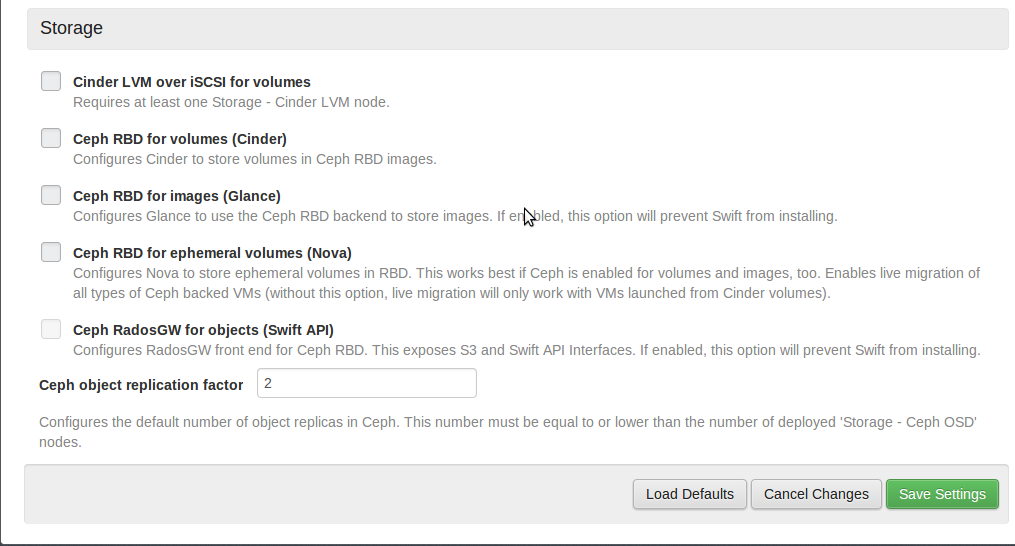
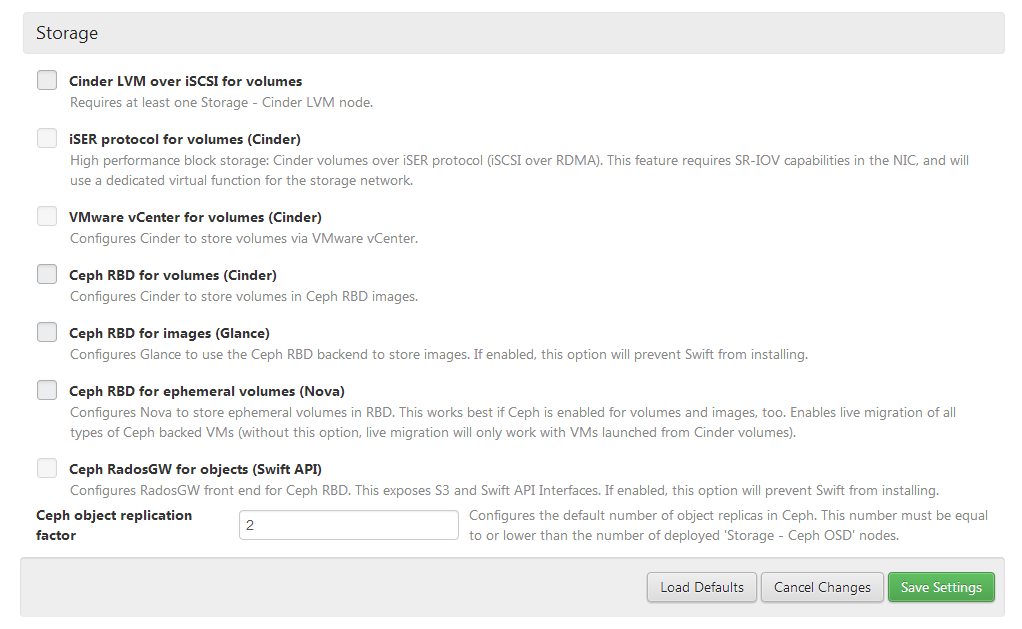
Add Mellanox configurations and planning
1. Add Mellanox configuration in settings tab.
2. Create initial section for usign Mellanox hardware
   in the planning guide.

Partial-Bug: 1359216

Changed region(s): [[0.0305, 0.0934, 1.0, 0.9652], [0.0, 0.9963, 1.0, 1.0], [0.0305, 0.0311, 0.1222, 0.0934]]

diff --git a/pages/user-guide/config-environment/settings/3600-mellanox-neutron.rst b/pages/user-guide/config-environment/settings/3600-mellanox-neutron.rst
@@ -1,0 +1,59 @@
+
+.. raw:: pdf
+
+   PageBreak
+
+.. _mellanox-neutron-ug:
+
+Mellanox Neutron components
++++++++++++++++++++++++++++
+
+This section explains how to configure Mellanox ConnectX-3 adapters
+in your environement. See :ref:`mellanox-adapters` for
+planning information.
+
+Kernel parameters configuration:
+
+*    If you are enabling :ref:`sr-iov-term` or :ref:`iser-term` block storage,
+     you must add "intel_iommu=on" to the kernel paramters:
+
+.. image:: /_images/user_screen_shots/intel_iommu.png
+   :width: 70%
+
+Mellanox Neutron plugin configuration:
+
+*    In order to work with other plugins without SR-IOV, such as OVS,
+     please select "Install only Mellanox drivers".
+
+*    In order to work with SR-IOV mode,
+     select "Install Mellanox drivers and SR-IOV plugins".
+     After choosing the Mellanox SR-IOV plugin, an editable text box for
+     changing the number of virtual functions is enabled.
+
+.. image:: /_images/user_screen_shots/mellanox-neutron.png
+   :width: 75%
+
+**Note:** The maximum number of supported vNICs is 16.
+See `HowTo Install Mirantis Fuel 5.1 OpenStack with Mellanox Adapters Support
+<http://community.mellanox.com/docs/DOC-1474/>`_
+to get instructions for changing the maximum number of vNICs.
+
+iSER configuration:
+
+*    In order to use high performance block storage, select "ISER
+     protocol for volumes (Cinder)" checkbox in the storage section.
+
+     The requirements for enabling iSER are:
+
+     - "Cinder LVM over iSCSI for volumes" should remain selected.
+     - Either "Install only Mellanox drivers" or
+       "Install Mellanox drivers and SR-IOV plugins" should be
+       checked in the Mellanox Components section.
+
+.. image:: /_images/user_screen_shots/storage-iser.png
+   :width: 75%
+
+**Note:**
+`HowTo Install Mirantis Fuel 5.1 OpenStack with Mellanox Adapters Support <http://community.mellanox.com/docs/DOC-1474/>`_ includes
+advanced information regarding Mirantis Openstack installation over
+Mellanox hardware.

diff --git a/pages/planning-guide/0010-prerequisites/0650-mellanox-adapters.rst b/pages/planning-guide/0010-prerequisites/0650-mellanox-adapters.rst
@@ -1,0 +1,32 @@
+
+.. _mellanox-adapters:
+
+Mellanox ConnectX-3 network adapters
+------------------------------------
+
+Beginning with version 5.1,
+Fuel can configure `Mellanox ConnectX-3
+<http://www.mellanox.com/page/products_dyn?product_family=119&mtag=connectx_3_vpi>`_
+network adapters to accelerate the performance of compute and storage traffic.
+
+This implements the following performance enhancements:
+
+- Compute nodes use :ref:`sr-iov-term` based networking.
+- Cinder nodes use :ref:`iser-term` block storage as the iSCSI transport
+  rather than the default iSCSI over TCP.
+
+These features
+reduce CPU overhead, boost throughput, reduce latency,
+and enable network traffic
+to bypass the software switch layer (e.g. Open vSwitch).
+
+The Mellanox ConnectX-3 adapters family supports up to 40/56GbE.
+To reach 56 GbE speed in your network with ConnectX-3 adapters,
+you must use Mellanox Ethernet switches (e.g. SX1036)
+with the additional 56GbE license.
+The switch ports should be configured specifically to use 56GbE speed.
+No additional configuration is required on the adapter side.
+For additional information about how to run in 56GbE speed,
+see `HowTo Configure 56GbE Link on Mellanox Adapters and Switches
+<http://community.mellanox.com/docs/DOC-1460>`_.
+

diff --git a/pages/planning-guide/4400-nodes-roles.rst b/pages/planning-guide/4400-nodes-roles.rst
@@ -44,6 +44,13 @@ Some general guiding principles:
   by combining multiple roles on the nodes
   and mapping multiple :ref:`logical-networks-arch`
   to a single physical NIC.
+- When looking to maximize performance,
+  carefully choose your hardware components
+  and make sure that the performance features of the selected hardware
+  are supported and enabled.
+  For an example of what tight integration
+  of hardware and software can do for you,
+  see :ref:`mellanox-adapters`.
 
 This section provides information to help you decide
 how many nodes you need and which roles to assign to each.

diff --git a/pages/user-guide/config-environment/5000-settings.rst b/pages/user-guide/config-environment/5000-settings.rst
@@ -47,5 +47,6 @@ you can click on the "Load Defaults" button at the bottom of the screen.
 .. include:: /pages/user-guide/config-environment/settings/2500-common-settings.rst
 .. include:: /pages/user-guide/config-environment/settings/3300-scheduler.rst
 .. include:: /pages/user-guide/config-environment/settings/3500-vlan-splinters.rst
+.. include:: /pages/user-guide/config-environment/settings/3600-mellanox-neutron.rst
 .. include:: /pages/user-guide/config-environment/settings/4000-settings-storage.rst
 

diff --git a/pages/planning-guide/4200-net-topology.rst b/pages/planning-guide/4200-net-topology.rst
@@ -73,7 +73,7 @@ Some other considerations when choosing a network topology:
   can only be implemented on Nova-network.
 - Neutron with VMware NSX can only be implemented with the KVM/QEMU hypervisor.
 - :ref:`bonding-term` is not supported for SR-IOV over
-  Mellanox connectX-3 adapters family.
+  the :ref:`mellanox-adapters` family.
 - Mellanox :ref:`sr-iov-term` and :ref:`iser-term` are supported only when
   choosing Neutron with VLAN.
 

diff --git a/pages/planning-guide/0010-prerequisites.rst b/pages/planning-guide/0010-prerequisites.rst
@@ -8,4 +8,5 @@
 .. include:: /pages/planning-guide/0010-prerequisites/0600-network-hardware-sizing.rst
 .. include:: /pages/planning-guide/0010-prerequisites/0630-scalability.rst
 .. include:: /pages/planning-guide/0010-prerequisites/0640-hardware-ex.rst
+.. include:: /pages/planning-guide/0010-prerequisites/0650-mellanox-adapters.rst
 .. include:: /pages/planning-guide/0010-prerequisites/0700-hardware-summary.rst

diff --git a/pages/user-guide/config-environment/settings/3300-scheduler.rst b/pages/user-guide/config-environment/settings/3300-scheduler.rst
@@ -2,7 +2,7 @@
 .. _scheduler-ug:
 
 Choose the Compute Node Scheduler
----------------------------------
++++++++++++++++++++++++++++++++++
 
 .. image:: /_images/user_screen_shots/settings-scheduler.png
    :width: 80%
